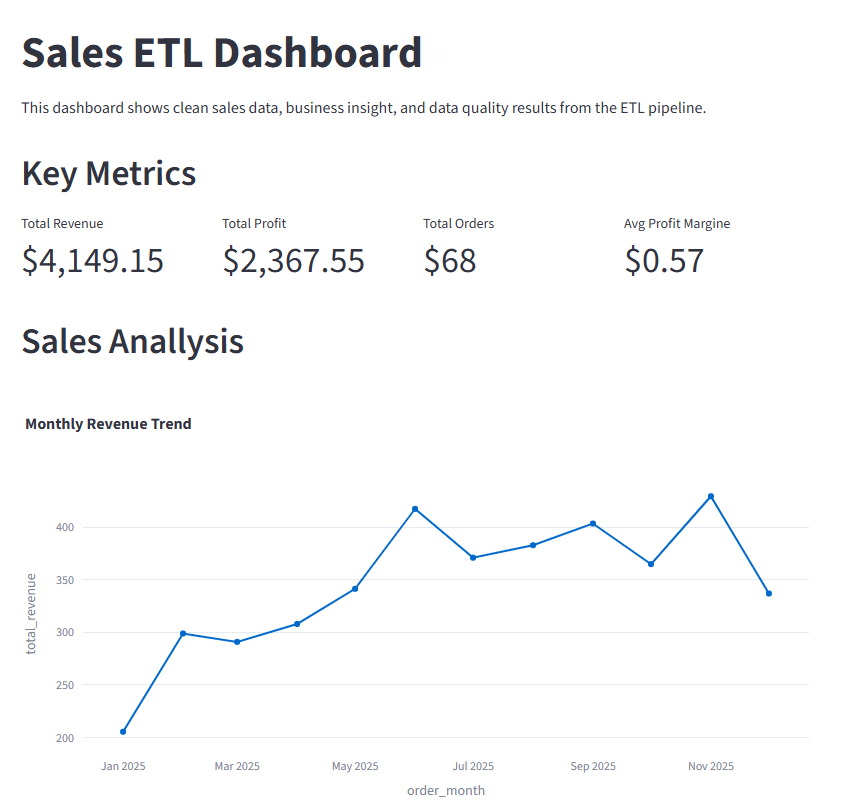
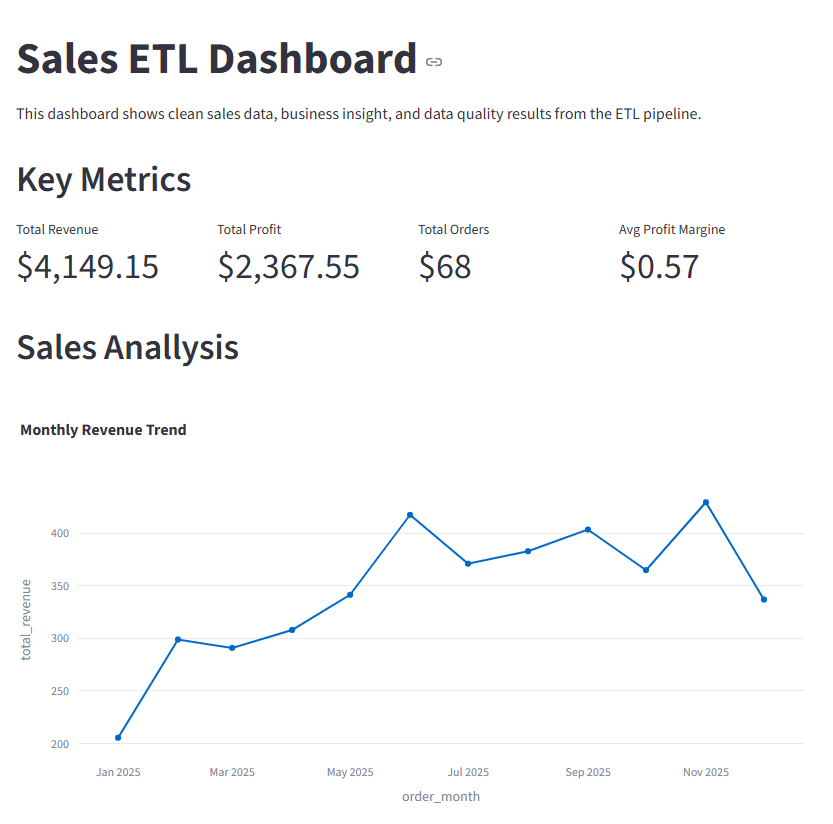
Add dashboard screenshot to README

diff --git a/README.md b/README.md
@@ -80,6 +80,10 @@ The dashboard includes:
 - Total profit
 - Total orders
 
+## Dashboard Preview
+
+![Sales ETL Dashboard](assets/dashboard.png)
+
 ## Project Summary
 
 This project demonstrates a complete ETL workflow, including data extraction, data validation, transformation, rejected record handling, and dashboard reporting. It is designed as a portfolio project to show practical skills in Python, pandas, data quality checks, and business analytics.